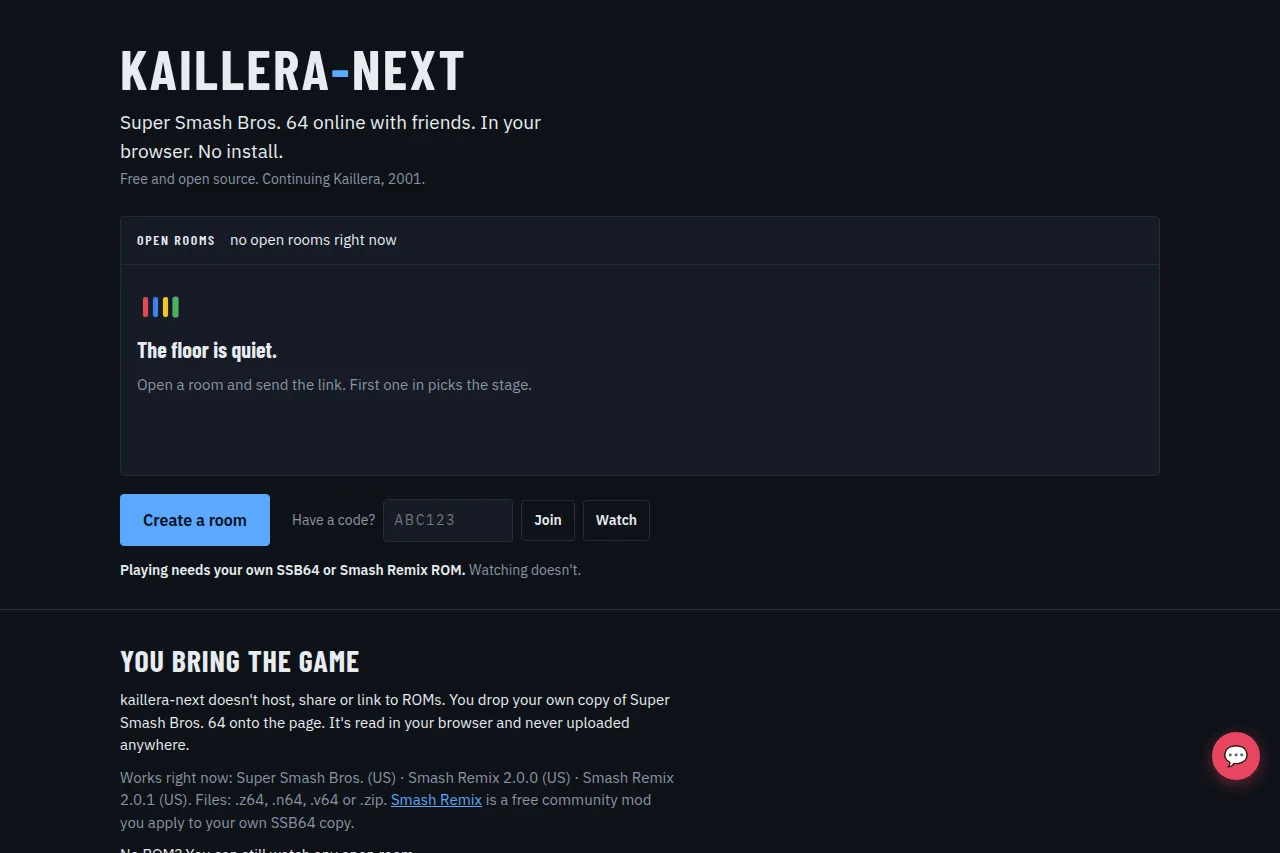
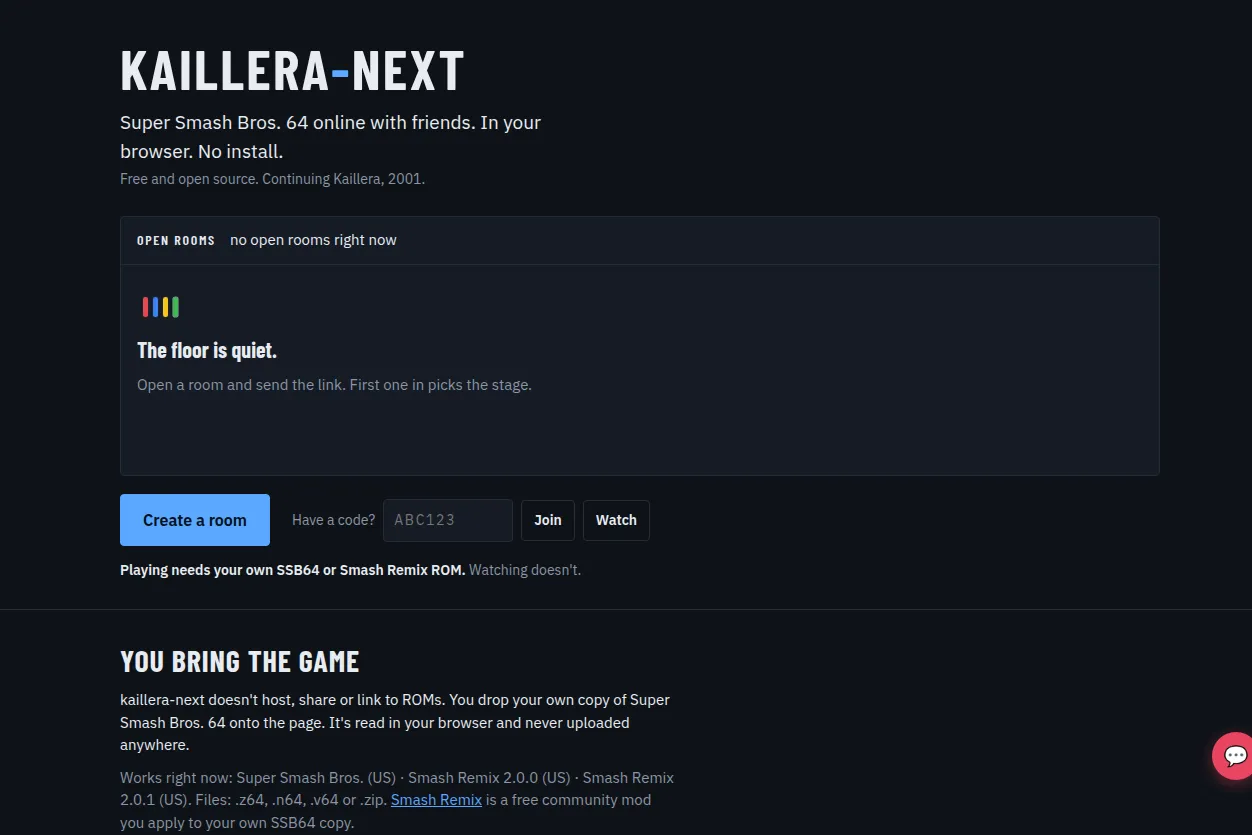
Fix Home review findings: distinct Tally shot, safe crops, one link per card
Addresses two independent reviews of PR #124 (head 5176775):

- Tally card now shows Transactions (cropped 1200x800 from the tally repo's
  screenshots branch, pr-75/322167d/transactions-desktop.png) instead of
  Home, so it no longer duplicates the Software engineering door's picture
  ~550px above it on the same page. Cropped so the bottom edge lands in the
  blank gap between rows, not through the Sep 19/Starbucks line. Alt text
  now says what it is and where it came from ("a CI capture", not "the
  public demo", since the source is the screenshots branch).
- Kaillera Next card recropped to 1252x835 (from the same full-page
  capture) so the bottom edge lands above "No ROM? You can still watch
  any open room." A 3:2 band from the top of this page cannot end above
  the open-rooms board and still show the hero: the page has no rendered
  video boxes right now (they stay hidden until the owner supplies the
  two recordings, per audit S5), so "keep the hero and the video boxes"
  has nothing below the board to include. The board stays in frame.
- One link per card: the image is a plain, non-interactive <img> with its
  descriptive alt; the only link is "Development journal" with a visually
  hidden project name, matching Building's own label and destination
  anchor exactly (/building/tally#tally-updates-title and
  /building/kaillera-next#kaillera-next-updates-title). A ::after on that
  link, positioned absolute/inset:0 against the now-relatively-positioned
[…]

diff --git a/docs/asset-reviews/headphones-v1.md b/docs/asset-reviews/headphones-v1.md
@@ -2,7 +2,7 @@
 
 - Purpose and placement: decorative illustration; About audio chapter.
 - Reviewer: Codex agent, September 10, 2026. This is agent QA, not owner acceptance of the implemented page.
-- Reference basis: Existing interests-v1 production illustration. Original generated artwork already selected by the owner; no third-party photo or logo. The visual study is a style reference, not production evidence.
+- Reference basis: Existing interests-v1 production illustration (retired 2026-09-26; last present at 8a44c76). Original generated artwork already selected by the owner; no third-party photo or logo. The visual study is a style reference, not production evidence.
 - Source original: `docs/design-concepts/2026-09-10/production/headphones-v1.png`. Prompt: `primary-page-prompts.json` in the same directory.
 - Native-resolution inspection: pass. Two earcups, bronze rings, headband, and hinges retain the accepted design and credible proportions. Both cups join the band; no cables or extra equipment. Decorative generic headphones, not a representation of the owner’s exact equipment.
 - Delivery: WebP quality 86, 1536 × 1024, 39,920 bytes. Same aspect ratio; no alternate crop or runtime transformation.

diff --git a/docs/asset-reviews/controller-v1.md b/docs/asset-reviews/controller-v1.md
@@ -2,7 +2,7 @@
 
 - Purpose and placement: decorative illustration; About play chapter and Building Kaillera Next row.
 - Reviewer: Codex agent, September 10, 2026. This is agent QA, not owner acceptance of the implemented page.
-- Reference basis: Existing interests-v1 production illustration. Original generated artwork already selected by the owner; no third-party photo or logo. The visual study is a style reference, not production evidence.
+- Reference basis: Existing interests-v1 production illustration (retired 2026-09-26; last present at 8a44c76). Original generated artwork already selected by the owner; no third-party photo or logo. The visual study is a style reference, not production evidence.
 - Source original: `docs/design-concepts/2026-09-10/production/controller-v1.png`. Prompt: `primary-page-prompts.json` in the same directory.
 - Native-resolution inspection: pass. Gray shell, cross D-pad, two center buttons, and four terracotta face buttons retain the accepted identity. Perspective, shell seam, button depth, and contact shadow are coherent. No cable or false branding.
 - Delivery: WebP quality 86, 1536 × 1024, 50,928 bytes. Same aspect ratio; no alternate crop or runtime transformation.

diff --git a/docs/website-direction.md b/docs/website-direction.md
@@ -135,7 +135,9 @@ implementation proposal as accepted before these findings inform the choice.
 
 Approved Work heading: “Software engineer. Building with AI.” The introduction
 expresses exploration, iteration, and engineering judgment. Home introduces a
-software engineer exploring ideas and building with AI. Work and About share the
+software engineer shaping ideas and building with AI (updated 2026-09-26 to
+remove a repeated “exploring” shared with the hero tagline; wording is the
+owner's to confirm). Work and About share the
 current opportunity statement from `src/data/profile.ts`. Historical job titles,
 dates, and outcomes remain accurate. No AI/ML specialization, new credential,
 product launch, or open-source contribution is implied.

diff --git a/docs/asset-reviews/threadline-v1.md b/docs/asset-reviews/threadline-v1.md
@@ -1,6 +1,6 @@
 # Asset: threadline-v1
 
-- Purpose and placement: Threadline project metaphor, Home prototype.
+- Purpose and placement: Threadline project metaphor, Building and /building/threadline (corrected 2026-09-26; the Home redesign PR removed this asset's Home placement).
 - Reviewer: Codex agent visual review, September 10, 2026. Not human production approval.
 - Reference basis: `docs/design-concepts/2026-09-09/home-quiet-studio-v2.png`. Owner-selected original generated illustration; no third-party product photograph or logo. No exact real-world product identity asserted.
 - Source original: `docs/design-concepts/2026-09-10/production/threadline-v1.png`.
